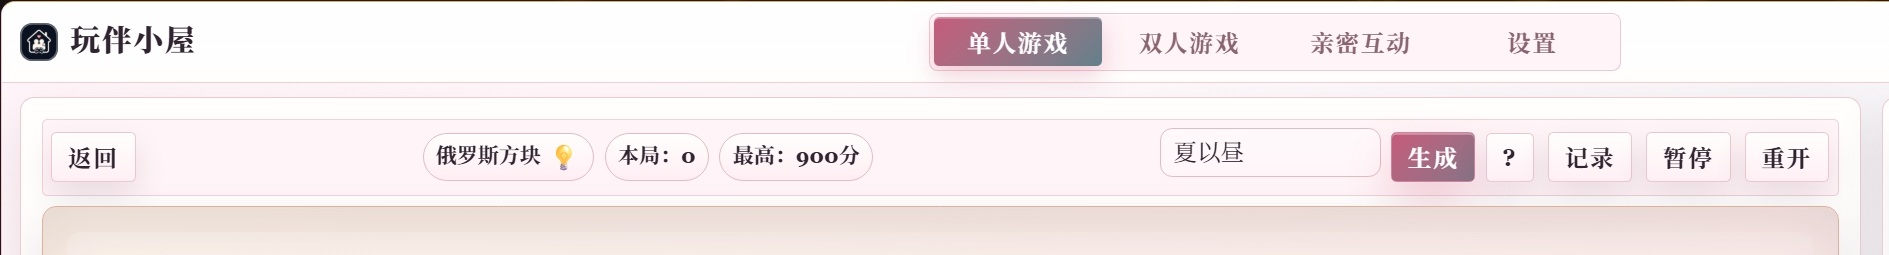
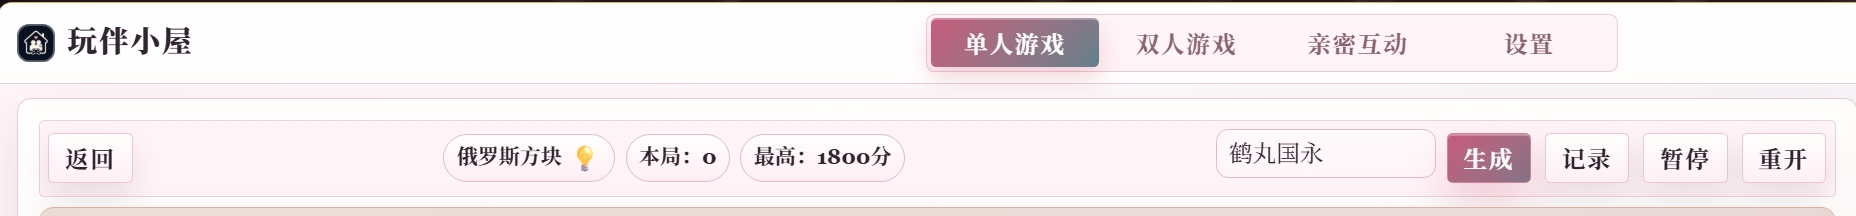
更新玩伴小屋功能

diff --git a/src/runtime/wanban-app.js b/src/runtime/wanban-app.js
@@ -1842,7 +1842,6 @@ export async function initWanbanXiaowu() {
         .wb-btn.primary { background:linear-gradient(135deg, var(--wb-accent), var(--wb-accent2)); box-shadow:0 6px 14px var(--wb-glow); }
         #wb-back { grid-column:1; grid-row:1; width:auto; min-width:40px; min-height:25px; padding:2px 7px; display:grid; place-items:center; font-size:12px; border-radius:2px; }
         #wb-generate-lines { min-width:44px; }
-        #wb-prompt-preview { width:25px; min-width:25px; height:25px; min-height:25px; padding:0; border-radius:50%; display:grid; place-items:center; font-size:12px; }
         .wb-pill { padding:3px 5px; font-size:10px; }
         .wb-record-table-wrap { width:100%; border:1px solid var(--wb-border); max-height:calc(100dvh - 104px); overflow-y:auto; overflow-x:hidden; }
         .wb-record-modal { width:100vw!important; max-width:100vw!important; height:calc(100dvh - 12px); max-height:calc(100dvh - 12px); padding:8px 4px; display:flex; flex-direction:column; box-sizing:border-box; }
@@ -2873,14 +2872,6 @@ export async function initWanbanXiaowu() {
 	    }
     return { cfg: promptCfg, preset };
   }
-	  function showLinePromptPreview(game) {
-	    const info = promptConfigForGame(game);
-	    const lineSystem = promptTemplates().systems.lineGeneration || PROMPT_TEMPLATES.systems.lineGeneration;
-	    const theaterJobs = theaterJobsForGame(game);
-	    const linePrompt = 'System\n' + lineSystem + '\n\nUser\n' + buildPrompt(game, info.cfg);
-	    const theaterPrompt = 'System\n' + theaterPackSystemPrompt(theaterJobs) + '\n\nUser\n' + buildTheaterPackPrompt(game, info.cfg, theaterJobs);
-	    showPromptModal(linePrompt, theaterPrompt);
-	  }
   function stripJsonFence(text) {
     let s = String(text || '').trim();
     const fence = String.fromCharCode(96) + String.fromCharCode(96) + String.fromCharCode(96);
@@ -3792,7 +3783,7 @@ export async function initWanbanXiaowu() {
     saveWindowState(currentTab, id);
     syncPopupModeClass();
     const g = GAME_META[id]; const cfg = settings(); const body = qs('#wb-body'); body.className = 'wb-body wb-game-mode';
-    const lineTools = cfg.companion ? '<div class="wb-line-tools"><select class="wb-select" id="wb-line-preset-select"></select><button class="wb-btn primary" id="wb-generate-lines">生成</button><button class="wb-btn" id="wb-prompt-preview" title="查看生成语录提示词">?</button></div>' : '';
+    const lineTools = cfg.companion ? '<div class="wb-line-tools"><select class="wb-select" id="wb-line-preset-select"></select><button class="wb-btn primary" id="wb-generate-lines">生成</button></div>' : '';
     const pauseBtn = g.mode === 'double' ? '' : '<button class="wb-btn" id="wb-pause">暂停</button>';
     const companionPanel = cfg.companion ? '<div class="wb-panel wb-side-companion">' + companionHTML() + '</div>' : '';
     body.innerHTML = '<div class="wb-layout ' + (cfg.companion ? '' : 'no-companion') + '"><div class="wb-panel"><div class="wb-toolbar"><button class="wb-btn" id="wb-back">返回</button><div class="wb-stat"><span class="wb-pill wb-title-row"><span class="wb-game-title-text">' + esc(g.name) + '</span><button class="wb-rule-btn" id="wb-game-rules" title="游戏介绍" aria-label="游戏介绍" type="button">💡</button></span><span class="wb-pill" id="wb-score">本局：0</span><span class="wb-pill" id="wb-high">' + esc(scoreDisplay(id)) + '</span></div><div class="wb-actions">' + lineTools + '<button class="wb-btn" id="wb-game-records">记录</button>' + pauseBtn + '<button class="wb-btn" id="wb-restart">重开</button></div></div><div class="wb-board-wrap wb-gamebox-' + esc(id) + '" id="wb-gamebox"><div class="wb-start-cover"><div>准备开始</div><button class="wb-btn primary" id="wb-start-cover-btn">开始游戏</button></div></div></div>' + companionPanel + '</div>';
@@ -3807,7 +3798,6 @@ export async function initWanbanXiaowu() {
     renderLinePresetSelect(id);
     const presetSelect = qs('#wb-line-preset-select'); if (presetSelect) presetSelect.onchange = () => applyLinePresetSelection(id, presetSelect.value);
     const genBtn = qs('#wb-generate-lines'); if (genBtn) genBtn.onclick = () => openSingleGenerateChoice(id);
-    const promptBtn = qs('#wb-prompt-preview'); if (promptBtn) promptBtn.onclick = () => showLinePromptPreview(id);
     updateLineGenerationStatusUI();
     if (!needsFirstMoverChoice(id) && DEFAULT_LINES[id] && DEFAULT_LINES[id].start) speak(id, 'start');
     setTimeout(() => { const saved = gameProgress(id); if (currentGame === id && saved && hasPlayableProgress(id, saved) && !gameStarted) showProgressChoice(id, saved); }, 60);
@@ -4002,16 +3992,6 @@ function showGameRecords(game, page) {
     mask.innerHTML = '<div class="wb-modal wb-summary-modal" style="width:min(960px,100%);"><div class="wb-modal-title">批量生成调试</div><textarea class="wb-textarea" readonly style="min-height:420px;font-family:monospace;white-space:pre;overflow:auto;">' + esc(text) + '</textarea><div class="wb-actions" style="margin-top:12px;justify-content:flex-end;"><button class="wb-btn" id="wb-batch-debug-close">关闭</button></div></div>';
     appendModalMask(mask);
     qs('#wb-batch-debug-close', mask).onclick = () => mask.remove();
-  }
-  function showPromptModal(linePrompt, theaterPrompt) {
-    const doc = getHostDocument();
-    const old = qs('#wb-text-mask', doc); if (old) old.remove();
-    const mask = doc.createElement('div');
-    mask.className = modalMaskClass();
-    mask.id = 'wb-text-mask';
-    mask.innerHTML = '<div class="wb-modal wb-summary-modal" style="width:min(1040px,100%);"><div class="wb-modal-title">提示词</div><div style="display:grid;gap:12px;"><div><div class="wb-section-title" style="font-size:12px;margin-bottom:6px;">语录提示词</div><textarea class="wb-textarea" readonly style="min-height:300px;white-space:pre;overflow:auto;">' + esc(linePrompt || '') + '</textarea></div><div><div class="wb-section-title" style="font-size:12px;margin-bottom:6px;">小剧场提示词</div><textarea class="wb-textarea" readonly style="min-height:300px;white-space:pre;overflow:auto;">' + esc(theaterPrompt || '') + '</textarea></div></div><div class="wb-actions" style="margin-top:12px;justify-content:flex-end;"><button class="wb-btn" id="wb-text-close">关闭</button></div></div>';
-    appendModalMask(mask);
-    qs('#wb-text-close', mask).onclick = () => mask.remove();
   }
   function showProgressChoice(game, state) {
     const doc = getHostDocument();

diff --git a/README.md b/README.md
@@ -461,11 +461,11 @@ char 的语录和日志可以结合这些内容定制：
 生成的小剧场可以保存，记录里会保存记录好的日志和小剧场。
 
 <p align="center">
-  <img src="./pic/24-help5.jpeg" width="600">
+  <img src="./pic/24-help6.jpeg" width="600">
 </p>
 
 <p align="center">
-  <img src="./pic/24-help6.jpeg" width="600">
+  <img src="./pic/24-help5.jpeg" width="600">
 </p>
 
 ### 游戏界面帮助
@@ -522,4 +522,15 @@ char 的语录和日志可以结合这些内容定制：
 
 ## 更新日志
 
-### 
+### 2026.5.10 V1.0.0
+
+首次发布玩伴小屋。
+
+- 内置单人游戏：俄罗斯方块、贪吃蛇、2048、合成大西瓜、翻牌记忆、跳一跳、搭木板、数独。
+- 内置双人游戏：双人飞行棋、猜数字、我说你猜、井字棋、五子棋、电子围地盘、抽鬼牌、翻转棋、数字炸弹、立体四子棋。
+- 支持陪伴模式，角色会根据游戏事件触发语录，也可以关闭陪伴模式当纯小游戏插件使用。
+- 支持角色和世界观预设、角色切换、头像保存、user/char 信息注入、世界书和大总结注入。
+- 支持为不同角色批量生成游戏语录和小剧场，也可以在单个游戏内生成当前游戏数据。
+- 支持小剧场、收藏小剧场、游戏日志、自动记录日志、历史记录查看。
+- 支持保存游戏进度、继续上次游戏、游戏时长统计、保留上一次窗口。
+- 支持 4 套掌机风格主题、自定义字体、手机端和电脑端自适应布局。
